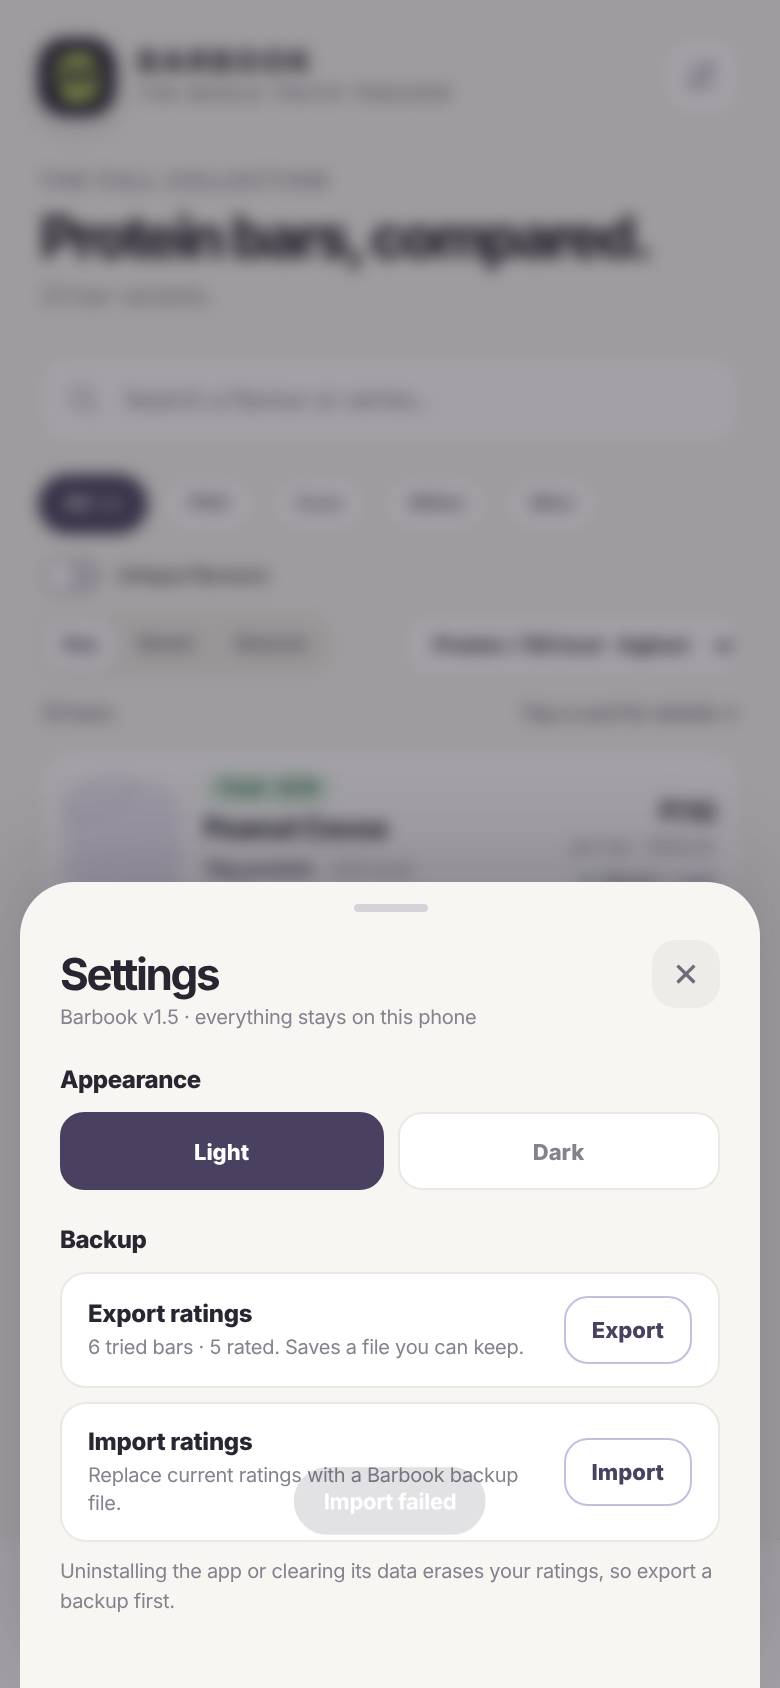
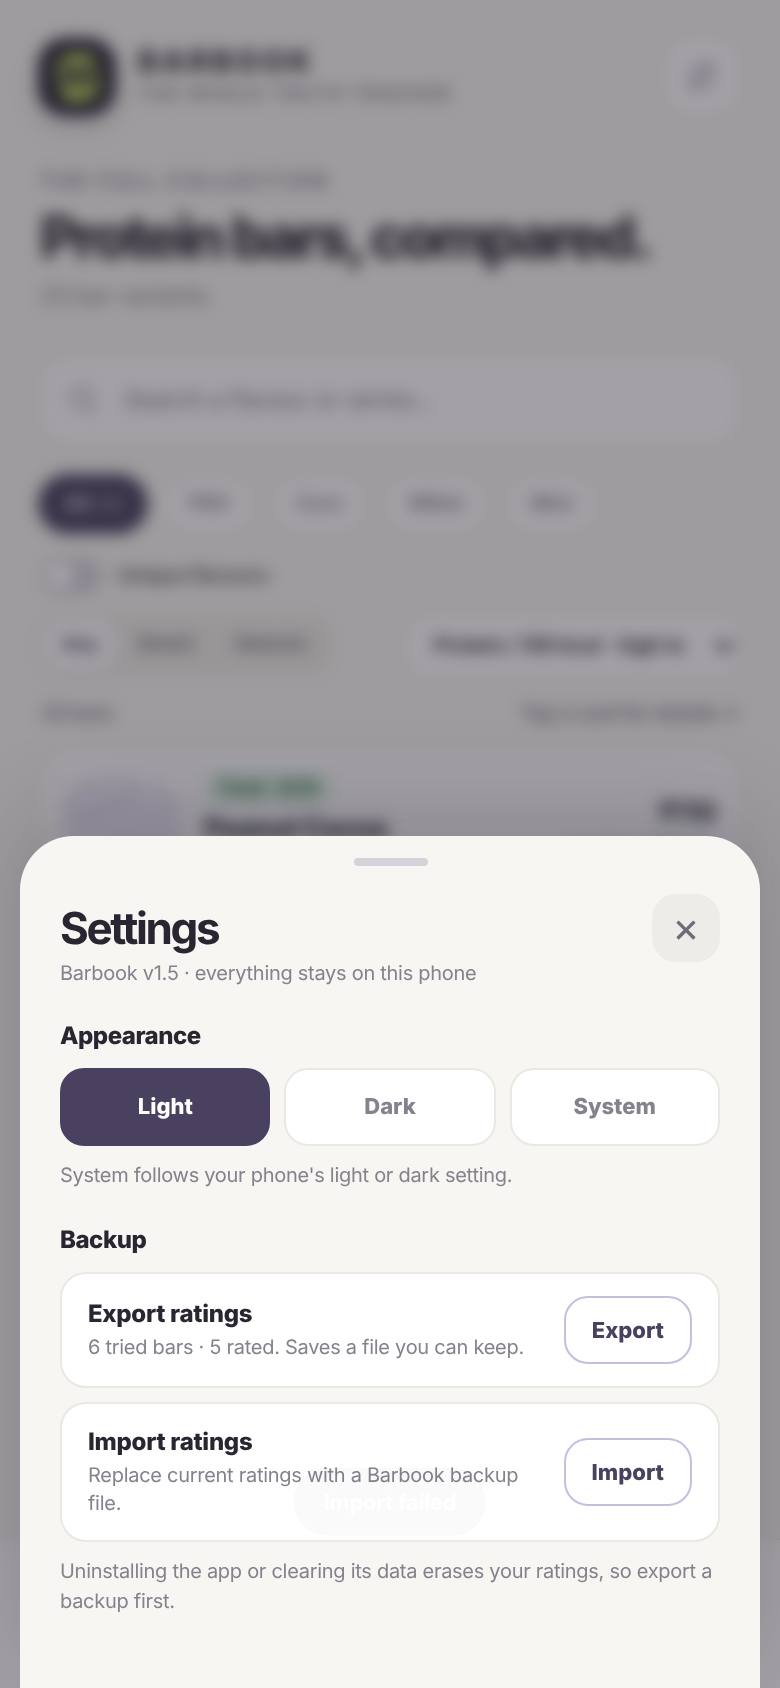
Add System theme option, unique flavours keeps best protein/100kcal, shorter sort labels
- Settings theme is now Light / Dark / System (default System). System follows the
  phone live; the saved choice is part of Export/Import backups.
- Android resolves System at start and on resume, handles uiMode changes, and a
  values-night theme makes the start-up window dark when the phone is dark.
- Unique flavours now keeps the variant with the highest protein per 100 kcal
  (the top of the default sort); tried status and rating on any variant carry over.
- Sort labels read "high to low" / "low to high".
- Validator, tests, README and Copilot instructions updated.

Claude-Session: https://claude.ai/code/session_01KMsSV3cEYCq1QYNxrbBR9u

diff --git a/app/src/main/assets/index.html b/app/src/main/assets/index.html
@@ -7,7 +7,11 @@
   <script>
     /* Apply the saved theme before anything is painted so a dark-mode user never sees a light frame. */
     (function(){ var d=document.documentElement; d.className='preload';
-      try { if (localStorage.getItem('barbook-theme-v1')==='dark') d.dataset.theme='dark'; } catch(e) {} })();
+      try {
+        var p=localStorage.getItem('barbook-theme-v1');
+        var sysDark=window.matchMedia && matchMedia('(prefers-color-scheme: dark)').matches;
+        if (p==='dark' || (p!=='light' && sysDark)) d.dataset.theme='dark';
+      } catch(e) {} })();
   </script>
   <meta name="description" content="A simple personal tracker for The Whole Truth protein bars.">
   <title>Barbook — The Whole Truth tracker</title>
@@ -171,6 +175,7 @@
     .toast { position:fixed; z-index:50; bottom:88px; left:50%; transform:translate(-50%,12px); opacity:0; pointer-events:none; background:#292536; color:white; padding:10px 15px; border-radius:999px; font-size:11px; font-weight:750; transition:opacity .38s ease, transform .38s cubic-bezier(.2,.7,.2,1); white-space:nowrap; }
     .toast.show { opacity:1; transform:translate(-50%,0); }
 
+    .edit-state.three { grid-template-columns:repeat(3,1fr); }
     .setting-row { display:flex; align-items:center; justify-content:space-between; gap:12px; background:var(--surface); border:1px solid var(--line); border-radius:13px; padding:11px 13px; margin-bottom:7px; }
     .setting-row b { display:block; font-size:12px; font-weight:800; }
     .setting-row small { display:block; margin-top:3px; color:var(--muted); font-size:10px; line-height:1.4; }
@@ -329,7 +334,11 @@ let edits = {};
 try { edits = JSON.parse(storage.get(STORE_KEY) || '{}') || {}; } catch(e) { edits = {}; }
 if (typeof edits !== 'object' || Array.isArray(edits)) edits = {};
 let uniqueFlavoursOnly = storage.get(UNIQUE_KEY) === 'true';
-let currentTheme = storage.get(THEME_KEY) === 'dark' ? 'dark' : 'light';
+const systemDarkQuery = window.matchMedia ? matchMedia('(prefers-color-scheme: dark)') : null;
+const normalizeThemePref = v => (v === 'light' || v === 'dark' || v === 'system') ? v : 'system';
+let themePref = normalizeThemePref(storage.get(THEME_KEY));
+const effectiveTheme = () => themePref === 'system' ? (systemDarkQuery && systemDarkQuery.matches ? 'dark' : 'light') : themePref;
+let currentTheme = effectiveTheme();
 let tab = 'browse', seriesFilter = 'All', availabilityFilter = 'Any', sortMode = 'efficiency', searchText = '';
 let activeBarId = null, settingsOpen = false, isEditing = false, editDraft = null;
 let confirmAction = null, pendingImport = null;
@@ -388,7 +397,7 @@ function filteredBars() {
    const key=b.flavor.trim().toLowerCase();
    const group=groups.get(key) || {representative:null, tasting:null};
    const old=group.representative;
-   if(!old || b.protein>old.protein || (b.protein===old.protein && b.cal<old.cal)) group.representative=b;
+   if(!old || proteinEfficiency(b)>proteinEfficiency(old) || (proteinEfficiency(b)===proteinEfficiency(old) && b.protein>old.protein)) group.representative=b;
    if(b.tried && b.rating!=null && (!group.tasting || Number(b.rating)>Number(group.tasting.rating))) group.tasting=b;
    else if(b.tried && !group.tasting) group.tasting=b;
    groups.set(key,group);
@@ -416,7 +425,7 @@ function browsePage() {
   ? `<div class="taste-hero"><div><div class="eyebrow">YOUR AVERAGE RATING</div><h2>${avgRating()} <span style="font-size:13px;color:#8b819c">/ 10</span></h2><p>${ratedBars().length} rated · ${triedBars().length} tried</p></div><div class="taste-score"><b>${triedBars().length}</b><span>TRIED</span></div></div><div class="taste-tip"><div class="tip-dot">✳</div><div>Tap a bar to change its tried status or rating. Saved on this phone.</div></div>`
   : `<div class="search-wrap">${svg('search')}<input id="searchInput" type="search" placeholder="Search a flavour or series…" value="${escapeHtml(searchText)}" autocomplete="off"></div>
    <div class="filter-row">${['All','PRO','Core','Millet','Mini'].map(s=>`<button class="filter-chip ${seriesFilter===s?'active':''}" data-series="${s}">${s}${s==='All'?'<span class="count">23</span>':''}</button>`).join('')}</div><div class="unique-row"><label class="unique-toggle"><input type="checkbox" id="uniqueFlavours" ${uniqueFlavoursOnly?'checked':''}><span class="switch"></span><span>Unique flavours</span></label></div>
-   <div class="filter-toolbar"><div class="availability-tabs">${['Any','Blinkit','Website'].map(s=>`<button class="${availabilityFilter===s?'active':''}" data-availability="${s}">${s}</button>`).join('')}</div><select class="sort-select" id="sortSelect" aria-label="Sort bars"><option value="efficiency" ${sortMode==='efficiency'?'selected':''}>Protein / 100 kcal · highest first</option><option value="price20" ${sortMode==='price20'?'selected':''}>₹ / 20g protein · lowest first</option></select></div>`;
+   <div class="filter-toolbar"><div class="availability-tabs">${['Any','Blinkit','Website'].map(s=>`<button class="${availabilityFilter===s?'active':''}" data-availability="${s}">${s}</button>`).join('')}</div><select class="sort-select" id="sortSelect" aria-label="Sort bars"><option value="efficiency" ${sortMode==='efficiency'?'selected':''}>Protein / 100 kcal · high to low</option><option value="price20" ${sortMode==='price20'?'selected':''}>₹ / 20g protein · low to high</option></select></div>`;
  return `<div class="page-title"><div class="eyebrow">${isTasted?'YOUR TRIED BARS':'THE FULL COLLECTION'}</div><h1>${isTasted?'Your tried bars.':'Protein bars, compared.'}</h1><p id="pageSummary">${summaryText(items.length)}</p></div>
   ${header}
   <div class="results-label"><span id="resultCount">${resultLabel(items.length)}</span><span>Tap a card for details ↗</span></div>
@@ -459,16 +468,22 @@ function switchTab(next) {
 
 /* Theme */
 function applyTheme() {
+ currentTheme = effectiveTheme();
  document.documentElement.dataset.theme = currentTheme;
- try { if (window.BarbookNative && window.BarbookNative.setTheme) window.BarbookNative.setTheme(currentTheme === 'dark'); } catch(e) {}
+ try { if (window.BarbookNative && window.BarbookNative.setThemeMode) window.BarbookNative.setThemeMode(themePref, currentTheme === 'dark'); } catch(e) {}
  const meta = $('meta[name="theme-color"]');
  if (meta) meta.content = currentTheme === 'dark' ? '#15141b' : '#f7f6f2';
- document.querySelectorAll('[data-theme-set]').forEach(el=>el.classList.toggle('active',el.dataset.themeSet===currentTheme));
+ document.querySelectorAll('[data-theme-set]').forEach(el=>el.classList.toggle('active',el.dataset.themeSet===themePref));
 }
 function setTheme(mode) {
- currentTheme = mode === 'dark' ? 'dark' : 'light';
- storage.set(THEME_KEY, currentTheme);
+ themePref = normalizeThemePref(mode);
+ storage.set(THEME_KEY, themePref);
  applyTheme();
+}
+if (systemDarkQuery) {
+ const onSystemThemeChange = () => { if (themePref === 'system') applyTheme(); };
+ if (systemDarkQuery.addEventListener) systemDarkQuery.addEventListener('change', onSystemThemeChange);
+ else if (systemDarkQuery.addListener) systemDarkQuery.addListener(onSystemThemeChange);
 }
 
 /* Bottom sheets (bar details and settings) share one shell. The entrance animation is only
@@ -574,7 +589,7 @@ function backupCounts(map) {
  return {total:list.length, tried:list.filter(e=>e.tried).length, rated:list.filter(e=>e.rating!=null).length};
 }
 function buildBackup() {
- return {app:'barbook', format:BACKUP_FORMAT, appVersion:APP_VERSION, exportedAt:new Date().toISOString(), edits:cleanEdits(edits), settings:{theme:currentTheme, uniqueFlavours:uniqueFlavoursOnly}};
+ return {app:'barbook', format:BACKUP_FORMAT, appVersion:APP_VERSION, exportedAt:new Date().toISOString(), edits:cleanEdits(edits), settings:{theme:themePref, uniqueFlavours:uniqueFlavoursOnly}};
 }
 function backupFileName() {
  const d=new Date(); const p=n=>String(n).padStart(2,'0');
@@ -584,7 +599,7 @@ function settingsInnerHtml() {
  const tried=triedBars().length, rated=ratedBars().length;
  return `<div class="sheet-handle"></div>
   <div class="sheet-top"><div class="sheet-title"><div><h2>Settings</h2><p>Barbook v${APP_VERSION} · everything stays on this phone</p></div></div><button class="close-button" data-close="button" aria-label="Close">×</button></div>
-  <div class="detail-section"><h3>Appearance</h3><div class="edit-state"><button class="edit-option ${currentTheme==='light'?'active':''}" data-theme-set="light">Light</button><button class="edit-option ${currentTheme==='dark'?'active':''}" data-theme-set="dark">Dark</button></div></div>
+  <div class="detail-section"><h3>Appearance</h3><div class="edit-state three">${[['light','Light'],['dark','Dark'],['system','System']].map(([id,label])=>`<button class="edit-option ${themePref===id?'active':''}" data-theme-set="${id}">${label}</button>`).join('')}</div><p class="edit-note">System follows your phone's light or dark setting.</p></div>
   <div class="detail-section"><h3>Backup</h3>
    <div class="setting-row"><div><b>Export ratings</b><small>${plural(tried,'tried bar')} · ${rated} rated. Saves a file you can keep.</small></div><button class="edit-log-button" data-export>Export</button></div>
    <div class="setting-row"><div><b>Import ratings</b><small>Replace current ratings with a Barbook backup file.</small></div><button class="edit-log-button" data-import>Import</button></div>
@@ -624,7 +639,7 @@ function parseBackup(text) {
 }
 function applyImport(result) {
  edits=result.edits; persist();
- if(result.settings.theme==='light' || result.settings.theme==='dark') setTheme(result.settings.theme);
+ if(['light','dark','system'].includes(result.settings.theme)) setTheme(result.settings.theme);
  if(typeof result.settings.uniqueFlavours==='boolean'){ uniqueFlavoursOnly=result.settings.uniqueFlavours; storage.set(UNIQUE_KEY,String(uniqueFlavoursOnly)); }
  renderMain(); refreshSettings(); applyTheme();
  toast('Backup restored');

diff --git a/scripts/validate_barbook.py b/scripts/validate_barbook.py
@@ -47,6 +47,8 @@ require(options == ["efficiency", "price20"], f"Expected exactly the two approve
 require("sortMode = 'efficiency'" in html, "Protein per 100 kcal must be the default sort")
 require("sortMode==='price20'" in html, "Price-per-20g sorting logic is missing")
 require("proteinEfficiency(b)-proteinEfficiency(a)" in html, "Efficiency sort must rank highest first")
+require("Protein / 100 kcal · high to low" in html and "₹ / 20g protein · low to high" in html, "Sort labels must read 'high to low' and 'low to high'")
+require("highest first" not in html and "lowest first" not in html, "Sort labels must not say 'highest first' or 'lowest first'")
 
 # --- Direct-to-catalogue navigation and intentionally minimal UI.
 require("tab = 'browse'" in html, "App must open directly on All bars")
@@ -70,6 +72,7 @@ require("ratingTone = score => Number(score) >= 8 ? 'rating-good' : (Number(scor
 require("availabilityFilter==='Blinkit'" in html and "availabilityFilter==='Website'" in html, "Marketplace-specific prices are missing")
 require("<textarea" not in html.lower() and "tasting notes" not in html.lower(), "Free-text tasting notes are outside the agreed scope")
 require('flavor:"Hazelnut Cocoa",series:"PRO"' in html and "tried:true,rating:6" in html, "Hazelnut Cocoa should be seeded as tried with a 6/10 rating")
+require("proteinEfficiency(b)>proteinEfficiency(old)" in html, "Unique flavours must keep the variant with the highest protein per 100 kcal")
 require("group.tasting.rating" in html and "group.representative" in html, "Unique-flavour view must carry tasting status from matching pack variants")
 require(len(re.findall(r"\{id:\d+,flavor:", html)) == 23, "The catalogue should contain exactly 23 bars unless a data change was requested")
 
@@ -78,6 +81,12 @@ require("var(--nav-line)" in html and "rgba(225,222,216,.8)" not in re.search(r"
         "The bottom bar border must use the themed --nav-line variable (a fixed light colour shows as a white line in dark mode)")
 require("html.preload" in html and "localStorage.getItem('barbook-theme-v1')" in html.split("</head>")[0], "The saved theme must be applied in <head> before first paint")
 require("getSharedPreferences" in java and "onResume" in java and "setBackgroundDrawable" in java, "MainActivity must remember the theme and apply it at start and resume (prevents a white flash in dark mode)")
+
+# --- Theme: Light, Dark or System.
+require(all(f'data-theme-set="${{id}}"' in html or id in html for id in ("light", "dark", "system")) and "[['light','Light'],['dark','Dark'],['system','System']]" in html, "Settings must offer Light, Dark and System themes")
+require("prefers-color-scheme: dark" in html and "normalizeThemePref" in html, "The System theme must follow the phone's colour scheme")
+require("setThemeMode" in java and "uiMode" in (ROOT / "app/src/main/AndroidManifest.xml").read_text(encoding="utf-8"), "MainActivity must resolve the System theme and handle uiMode changes")
+require((ROOT / "app/src/main/res/values-night/styles.xml").exists(), "values-night/styles.xml is needed so the start-up window is dark when the phone is dark")
 
 # --- Settings, export and import.
 require("data-export" in html and "data-import" in html, "Settings must offer Export and Import")

diff --git a/app/src/main/java/com/barbook/wholetruth/MainActivity.java b/app/src/main/java/com/barbook/wholetruth/MainActivity.java
@@ -4,6 +4,7 @@ import android.app.Activity;
 import android.content.ActivityNotFoundException;
 import android.content.Intent;
 import android.content.SharedPreferences;
+import android.content.res.Configuration;
 import android.graphics.drawable.ColorDrawable;
 import android.graphics.Color;
 import android.net.Uri;
@@ -28,7 +29,7 @@ public class MainActivity extends Activity {
     private static final int REQUEST_IMPORT = 4102;
     private static final int MAX_BACKUP_BYTES = 1000000;
     private static final String PREFS = "barbook";
-    private static final String PREF_DARK = "dark";
+    private static final String PREF_MODE = "themeMode"; // "light", "dark" or "system"
 
     private WebView webView;
     private String pendingExport;
@@ -38,7 +39,7 @@ public class MainActivity extends Activity {
         super.onCreate(savedInstanceState);
         // Start in the theme the user last chose, so a dark-mode user never sees a light flash
         // while the page is still loading. The page confirms the theme once it is running.
-        boolean dark = getSharedPreferences(PREFS, MODE_PRIVATE).getBoolean(PREF_DARK, false);
+        boolean dark = resolveDark();
 
         webView = new WebView(this);
         updateSystemBars(dark);
@@ -63,7 +64,23 @@ public class MainActivity extends Activity {
     protected void onResume() {
         super.onResume();
         // Coming back from recents: repaint the window and WebView in the saved theme straight away.
-        updateSystemBars(getSharedPreferences(PREFS, MODE_PRIVATE).getBoolean(PREF_DARK, false));
+        updateSystemBars(resolveDark());
+    }
+
+    @Override
+    public void onConfigurationChanged(Configuration newConfig) {
+        super.onConfigurationChanged(newConfig);
+        // The phone switched between light and dark; only matters when the app follows the system.
+        updateSystemBars(resolveDark());
+    }
+
+    /** Whether the app should currently be dark, from the saved choice (System follows the phone). */
+    private boolean resolveDark() {
+        String mode = getSharedPreferences(PREFS, MODE_PRIVATE).getString(PREF_MODE, "system");
+        if ("dark".equals(mode)) return true;
+        if ("light".equals(mode)) return false;
+        int night = getResources().getConfiguration().uiMode & Configuration.UI_MODE_NIGHT_MASK;
+        return night == Configuration.UI_MODE_NIGHT_YES;
     }
 
     private void updateSystemBars(boolean dark) {
@@ -84,8 +101,9 @@ public class MainActivity extends Activity {
     /** Methods exposed to the page as window.BarbookNative. They run on a background thread. */
     private final class NativeBridge {
         @JavascriptInterface
-        public void setTheme(boolean dark) {
-            getSharedPreferences(PREFS, MODE_PRIVATE).edit().putBoolean(PREF_DARK, dark).apply();
+        public void setThemeMode(String mode, boolean dark) {
+            String safeMode = ("light".equals(mode) || "dark".equals(mode)) ? mode : "system";
+            getSharedPreferences(PREFS, MODE_PRIVATE).edit().putString(PREF_MODE, safeMode).apply();
             runOnUiThread(() -> updateSystemBars(dark));
         }
 

diff --git a/.github/copilot-instructions.md b/.github/copilot-instructions.md
@@ -9,7 +9,7 @@
 - Catalogue sorting must contain exactly two options: protein per 100 kcal (default, descending) and ₹ per 20g protein (ascending). Do not reintroduce raw price, raw calories, or raw protein sorting.
 - Marketplace price display must follow the selected marketplace filter. In Any, show the lower available price and identify its source.
 - Navigation: open directly to All bars; bottom navigation is only All bars and Tried. Settings opens from the header icon as a sheet. Do not reintroduce Home or an inert header search shortcut. Remove redundant tracker-sheet footer notes.
-- Keep light/dark mode, Save/Discard editing, the compact Unique flavours switch, and Settings export/import working.
+- Keep the Light/Dark/System theme choice (default System), Save/Discard editing, the compact Unique flavours switch, and Settings export/import working. Dark mode is set only in Settings, not in the header. The Unique flavours switch keeps the variant with the highest protein per 100 kcal per flavour. Sort labels read "high to low" / "low to high".
 - Rating colours: 8–10 green, 6–7 yellow, 1–5 red.
 - Rendering rule (prevents screen flashing): build the page shell once, then update only what changed. Never replace an open sheet or re-render the whole page for an ordinary tap. Entrance animations belong only on the `.enter` class used when a sheet first opens. Support `prefers-reduced-motion`; keep motion understated.
 - Keep the product catalogue data unchanged unless the task explicitly requests a data correction.

diff --git a/README.md b/README.md
@@ -14,9 +14,9 @@ Every release is signed with the same key, so a new version installs **over** th
 ## Product behaviour
 
 - Opens directly on **All bars**; bottom navigation is only **All bars** and **Tried**.
-- **Settings** (sliders icon, top right) has light/dark mode and **Export / Import ratings**.
-- A compact **Unique flavours** switch collapses pack/series variants with matching flavour names (All bars only).
-- Sorting: protein per 100 kcal (default, highest first) and ₹ per 20g protein (lowest first).
+- **Settings** (sliders icon, top right) has the theme (**Light**, **Dark** or **System**, which follows the phone) and **Export / Import ratings**.
+- A compact **Unique flavours** switch shows one entry per flavour: the variant with the highest protein per 100 kcal (the one that tops the default sort). A tried status or rating on any variant carries over to that entry. All bars only.
+- Sorting: protein per 100 kcal (default, high to low) and ₹ per 20g protein (low to high).
 - Marketplace price follows the selected filter; Any shows the lower price and where it is from.
 - Personal data is a tried/not-tried status and an optional rating from 1 to 10. Ratings 8–10 are green, 6–7 yellow, 1–5 red.
 - Personal data is stored only on the phone (`localStorage`, key `barbook-v1-personal-edits`). No cloud sync, accounts, analytics or uploads.
